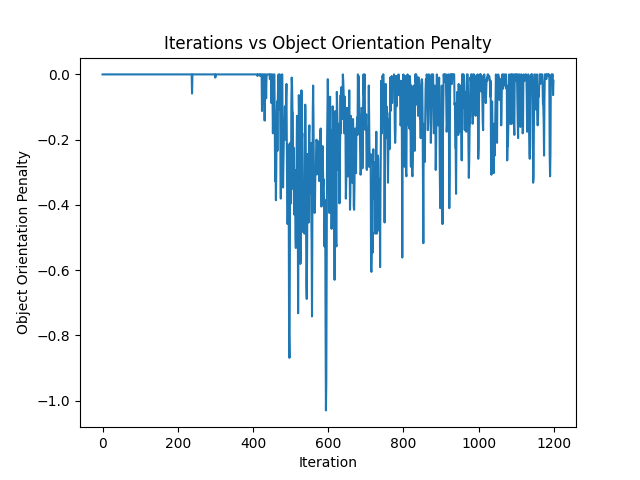
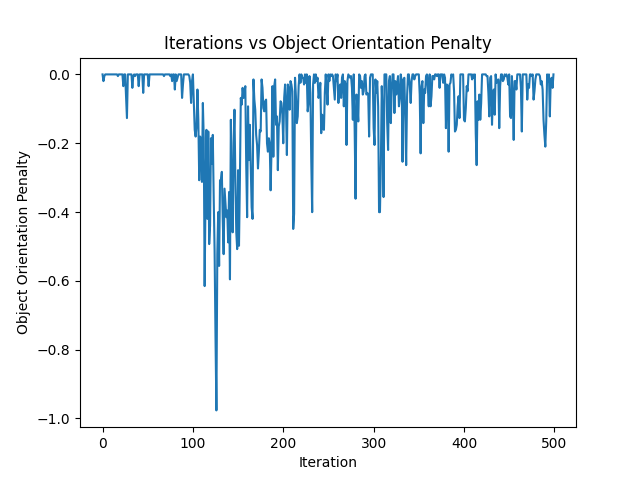
graphs

diff --git a/source/gr1_train/gr1_train/tasks/direct/gr1_train/gr1_train_env_cfg.py b/source/gr1_train/gr1_train/tasks/direct/gr1_train/gr1_train_env_cfg.py
@@ -16,9 +16,36 @@ from isaaclab.utils import configclass
 from isaaclab.utils.assets import ISAAC_NUCLEUS_DIR, ISAACLAB_NUCLEUS_DIR
 from isaaclab_assets.robots.fourier import GR1T2_HIGH_PD_CFG
 from isaaclab.sensors import ContactSensorCfg
+# from isaacsim.storage.native import get_assets_root_path
+
 
 @configclass
 class ObjectTableSceneCfg(InteractiveSceneCfg):
+    # assets_root_path = get_assets_root_path()
+
+    # robot = ArticulationCfg(
+    #     prim_path="/World/envs/env_.*/Robot",
+    #     spawn=UsdFileCfg(
+    #         usd_path=f"{assets_root_path}/Isaac/Robots/FourierIntelligence/GR-1/GR1T2_fourier_hand_6dof/GR1T2_fourier_hand_6dof.usd",
+    #     ),
+    #     init_state=ArticulationCfg.InitialStateCfg(
+    #         pos=(-0.3, 0, 0.93),
+    #         rot=(0.7071, 0, 0, 0.7071),
+    #         joint_pos={".*": 0.0},
+    #         joint_vel={".*": 0.0},
+    #     ),
+    #     actuators=GR1T2_HIGH_PD_CFG.actuators,
+    # )    
+    robot: ArticulationCfg = GR1T2_HIGH_PD_CFG.replace(
+        prim_path="/World/envs/env_.*/Robot",
+        init_state=ArticulationCfg.InitialStateCfg(
+            pos=(-0.3, 0, 0.93),
+            rot=(0.7071, 0, 0, 0.7071),
+            joint_pos={".*": 0.0},
+            joint_vel={".*": 0.0},
+        ),
+    )
+
     packing_table = AssetBaseCfg( # Height: 0.9941
         prim_path="/World/envs/env_.*/PackingTable",
         init_state=AssetBaseCfg.InitialStateCfg(pos=[0.0, 0.55, 0.0], rot=[1.0, 0.0, 0.0, 0.0]),
@@ -50,15 +77,8 @@ class ObjectTableSceneCfg(InteractiveSceneCfg):
         ),
     )
 
-    robot: ArticulationCfg = GR1T2_HIGH_PD_CFG.replace(
-        prim_path="/World/envs/env_.*/Robot",
-        init_state=ArticulationCfg.InitialStateCfg(
-            pos=(-0.3, 0, 0.93),
-            rot=(0.7071, 0, 0, 0.7071),
-            joint_pos={".*": 0.0},
-            joint_vel={".*": 0.0},
-        ),
-    )
+
+    
 
     ground = AssetBaseCfg(
         prim_path="/World/GroundPlane",
@@ -94,10 +114,10 @@ class ObjectTableSceneCfg(InteractiveSceneCfg):
 
 @configclass
 class Gr1TrainEnvCfg(DirectRLEnvCfg):
-    decimation: int = 6
+    decimation: int = 20
     episode_length_s: float = 5.0
 
-    sim: SimulationCfg = SimulationCfg(dt=1.0 / 120.0, render_interval=2)
+    sim: SimulationCfg = SimulationCfg(dt=1.0 / 200.0, render_interval=2)
     scene: ObjectTableSceneCfg = ObjectTableSceneCfg(num_envs=64, env_spacing=2.5, replicate_physics=True)
 
     action_space: int = 7

diff --git a/source/gr1_train/gr1_train/tasks/direct/gr1_train/gr1_train_env.py b/source/gr1_train/gr1_train/tasks/direct/gr1_train/gr1_train_env.py
@@ -284,7 +284,7 @@ class Gr1TrainEnv(DirectRLEnv):
         # left_dist = torch.linalg.norm(left_hand_pos - obj_pos, dim=-1)
         # normalise distance to be between 0 and 1
         left_finger_dist = torch.linalg.norm(link_data[:, 44] - obj_pos, dim=-1)
-        normalised_distance = torch.tanh(left_finger_dist * 2)
+        normalised_distance = torch.tanh(left_finger_dist * 3)
         # print(f"Normalised distance: max={torch.max(normalised_distance).item()} min={torch.min(normalised_distance).item()}")
         # When it gets closer, max action value decreases
         # "left_shoulder_pitch_joint", "left_shoulder_roll_joint", "left_shoulder_yaw_joint", "left_elbow_pitch_joint" but wrist not slowed

diff --git a/source/gr1_train/gr1_train/tasks/direct/gr1_train/agents/rsl_rl_ppo_cfg.py b/source/gr1_train/gr1_train/tasks/direct/gr1_train/agents/rsl_rl_ppo_cfg.py
@@ -11,7 +11,7 @@ from isaaclab_rl.rsl_rl import RslRlOnPolicyRunnerCfg, RslRlPpoActorCriticCfg, R
 @configclass
 class PPORunnerCfg(RslRlOnPolicyRunnerCfg):
     num_steps_per_env = 32 # horizon, the number of (physics) steps before updating the policy
-    max_iterations = 1200 # Total number of PPO iterations to perform
+    max_iterations = 500 # Total number of PPO iterations to perform
     save_interval = 50 # saves model checkpoints every 50 iterations
     experiment_name = "gr1-manip"
     policy = RslRlPpoActorCriticCfg(
